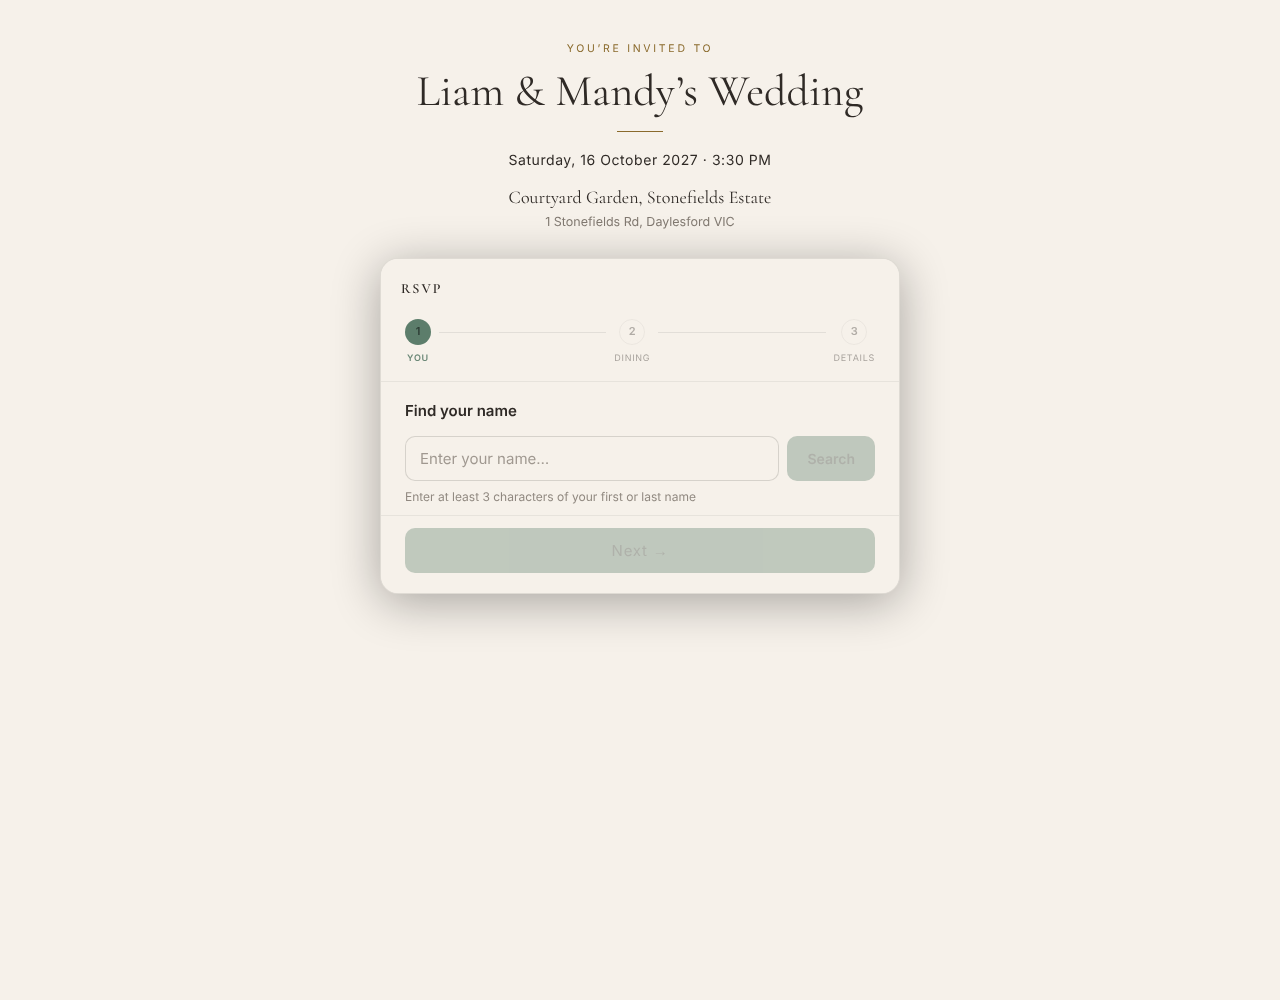
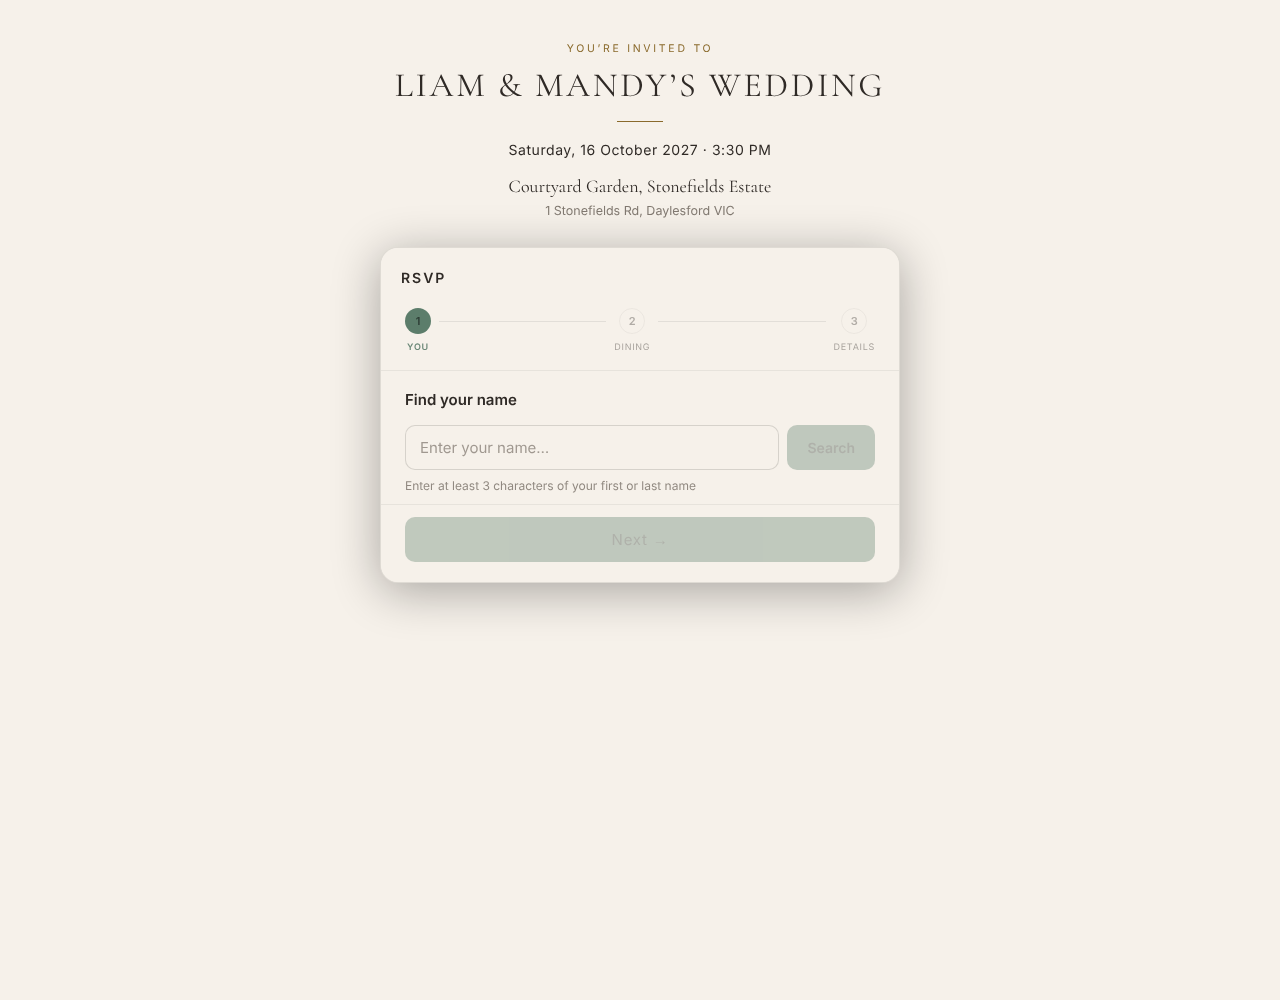
RSVP link page style chosen by the couple in RSVP settings (Classic/Modern/Editorial/Atelier), independent of the website format — pending review
Claude-Session: https://claude.ai/code/session_019ebu91FgpPSyuHTGFmYJXP

diff --git a/js/website.js b/js/website.js
@@ -2019,6 +2019,16 @@ function openWbRsvp(){
     </div>
 
     <div>
+      <div class="wb-slot-lbl" style="margin-bottom:6px">RSVP link page</div>
+      <div style="font-size:11.5px;color:var(--muted);margin:-2px 0 8px;line-height:1.45">How the page looks when guests open your RSVP link or QR code — your names, the date, start time and venue above the form.</div>
+      <div id="rsvp-page-grid" style="display:grid;grid-template-columns:repeat(4,minmax(0,1fr));gap:6px">
+        ${[['classic','Classic'],['modern','Modern'],['editorial','Editorial'],['atelier','Atelier']].map(([id,label])=>{const on=(r.pageStyle||'classic')===id;return `<button type="button" data-ps="${id}" onclick="_wbRsvpSetPageStyle('${id}')" style="min-width:0;padding:8px 4px;border-radius:9px;border:2px solid ${on?'var(--gold)':'var(--border)'};background:${on?'color-mix(in srgb,var(--gold) 10%,var(--cream) 90%)':'var(--cream)'};cursor:pointer;display:flex;flex-direction:column;align-items:center;gap:5px;font-family:inherit">
+          <div style="width:100%;max-width:60px;height:36px;border-radius:5px;overflow:hidden;border:1px solid var(--border)">${_rsvpPageStyleThumb(id)}</div>
+          <div style="font-size:10.5px;font-weight:${on?'600':'400'};color:${on?'var(--gold)':'var(--fg)'}">${label}</div></button>`;}).join('')}
+      </div>
+    </div>
+
+    <div>
       <div class="wb-slot-lbl" style="margin-bottom:6px">Colour scheme</div>
       <div id="rsvp-pal-grid" style="display:flex;gap:5px">
         ${palBtn('sage','Sage',['#E8EDEA','#5C7D6B'])}
@@ -2084,6 +2094,25 @@ function _wbRsvpSetStyle(s){
     if(lbl){lbl.style.fontWeight=on?'600':'400';lbl.style.color=on?'var(--gold)':'var(--fg)';}
   });
   _wbRsvpRefreshPreview();
+}
+// RSVP link page style (the stand-alone page guests reach from the RSVP link / QR code).
+// Chosen by the couple here, independent of the website's own format.
+function _rsvpPageStyleThumb(id){
+  const bg='#F6F1EA', ink='#2F2A26', ac='#B8963E';
+  const svg=b=>`<svg width="100%" height="100%" viewBox="0 0 60 36" xmlns="http://www.w3.org/2000/svg"><rect width="60" height="36" fill="${bg}"/>${b}</svg>`;
+  if(id==='modern') return svg(`<rect x="16" y="8" width="28" height="2.5" fill="${ink}"/><rect x="20" y="13" width="20" height="1.5" fill="${ac}"/><rect x="12" y="20" width="36" height="12" rx="2" fill="#fff" stroke="#ddd"/>`);
+  if(id==='editorial') return svg(`<rect x="5" y="4" width="50" height=".8" fill="${ink}"/><rect x="8" y="7" width="44" height="5" fill="${ink}"/><rect x="5" y="15" width="22" height="1.5" fill="${ink}" opacity=".6"/><rect x="44" y="13" width="11" height="4" fill="${ink}"/><rect x="12" y="20" width="36" height="12" rx="2" fill="#fff" stroke="#ddd"/>`);
+  if(id==='atelier') return svg(`<rect x="6" y="4" width="16" height="4" fill="${ink}"/><rect x="6" y="9" width="4" height="2" fill="${ac}"/><rect x="6" y="12" width="20" height="4" fill="${ink}"/><rect x="34" y="6" width="20" height=".8" fill="${ink}"/><rect x="34" y="9" width="16" height="1.5" fill="${ink}" opacity=".6"/><rect x="12" y="20" width="36" height="12" rx="2" fill="#fff" stroke="#ddd"/>`);
+  return svg(`<rect x="22" y="5" width="16" height="1.2" fill="${ac}"/><rect x="14" y="8" width="32" height="3" fill="${ink}" opacity=".85"/><rect x="26" y="13" width="8" height=".6" fill="${ac}"/><rect x="12" y="20" width="36" height="12" rx="2" fill="#fff" stroke="#ddd"/>`);
+}
+function _wbRsvpSetPageStyle(id){
+  _wbSite().rsvp.pageStyle=id; saveToStorage();
+  document.querySelectorAll('#rsvp-page-grid button').forEach(b=>{
+    const on=b.dataset.ps===id;
+    b.style.borderColor=on?'var(--gold)':'var(--border)';
+    b.style.background=on?'color-mix(in srgb,var(--gold) 10%,var(--cream) 90%)':'var(--cream)';
+    const lbl=b.querySelector('div:last-child'); if(lbl){lbl.style.fontWeight=on?'600':'400';lbl.style.color=on?'var(--gold)':'var(--fg)';}
+  });
 }
 function _wbRsvpSetPalette(id){
   const _r=_wbSite().rsvp;

diff --git a/js/init.js b/js/init.js
@@ -373,7 +373,10 @@ function _rsvpPageHeadHtml(ev, t){
     ? [['Ceremony',place('ceremony'),ev.ceremonyVenueAddress],['Reception',place('reception'),ev.venueAddress]].filter(v=>v[1])
     : (ev.venue?[['',[typeof _evSpace==='function'&&_evSpace('ceremony',ev),ev.venue].filter(Boolean).join(', '),ev.venueAddress]]:[]);
   const venueHtml=venues.map(([lbl,nm,addr])=>`<div class="rh-venue">${lbl?`<span class="rh-k">${esc(lbl)}</span>`:''}<span class="rh-v">${esc(nm)}</span>${addr?`<span class="rh-a">${esc(addr)}</span>`:''}</div>`).join('');
-  const fmt=t.format||'modern';
+  // The couple picks the RSVP page style in RSVP settings (website.rsvp.pageStyle);
+  // it maps onto the same four layouts as the website formats.
+  const ps=((STATE.website&&STATE.website.rsvp)||{}).pageStyle||'classic';
+  const fmt={classic:'modern', modern:'editorial', editorial:'magazine', atelier:'atelier'}[ps]||'modern';
   if(fmt==='magazine'){
     const mast=names?esc(names).replace(' &amp; ',' <i>&amp;</i> '):esc(title);
     return `<div class="rh rh-mag">
@@ -402,7 +405,10 @@ function _rsvpPageHeadHtml(ev, t){
 }
 function _rsvpPageHeadCss(){
   const t=(STATE.website&&STATE.website.theme)||{};
-  const head=t.headFont||"'Cormorant Garamond',serif", body=t.bodyFont||"'Inter',sans-serif";
+  // Each RSVP page style brings its own heading font (the website's font isn't used).
+  const ps=((STATE.website&&STATE.website.rsvp)||{}).pageStyle||'classic';
+  const head={editorial:"'Bodoni Moda','Bodoni 72',Didot,Georgia,serif", atelier:"'Playfair Display',Georgia,serif"}[ps]||"'Cormorant Garamond',Georgia,serif";
+  const body="'Inter',system-ui,sans-serif";
   const ink=t.heading||'#4A3F35', txt=t.text||'#5A5148', ac=t.accent||'#C9A227';
   return `#uv-rsvp-head{width:100%;max-width:520px;margin:0 auto;padding:40px 4px 26px;box-sizing:border-box;color:${txt};font-family:${body}}`
    +`#uv-rsvp-head .rh-k{display:block;font-size:10px;letter-spacing:.22em;text-transform:uppercase;opacity:.7;margin-bottom:3px}`
@@ -486,6 +492,9 @@ async function _showRsvpForm(coupleId){
       +'.rfm-close{display:none!important}#uv-rsvp-sheet{border:1px solid rgba(0,0,0,.09)}'
       + _rsvpPageHeadCss();
     (document.head||document.documentElement).appendChild(st);
+    const fl=document.createElement('link'); fl.rel='stylesheet';
+    fl.href='https://fonts.googleapis.com/css2?family=Bodoni+Moda:ital,opsz,wght@0,6..96,400;1,6..96,400&family=Playfair+Display:ital,wght@0,400;1,400&family=Cormorant+Garamond:ital,wght@0,400;1,400&family=Inter:wght@400;500&display=swap';
+    (document.head||document.documentElement).appendChild(fl);
     const head=document.createElement('header');
     head.id='uv-rsvp-head';
     head.innerHTML=_rsvpPageHeadHtml(STATE.event||{}, (STATE.website&&STATE.website.theme)||{});
